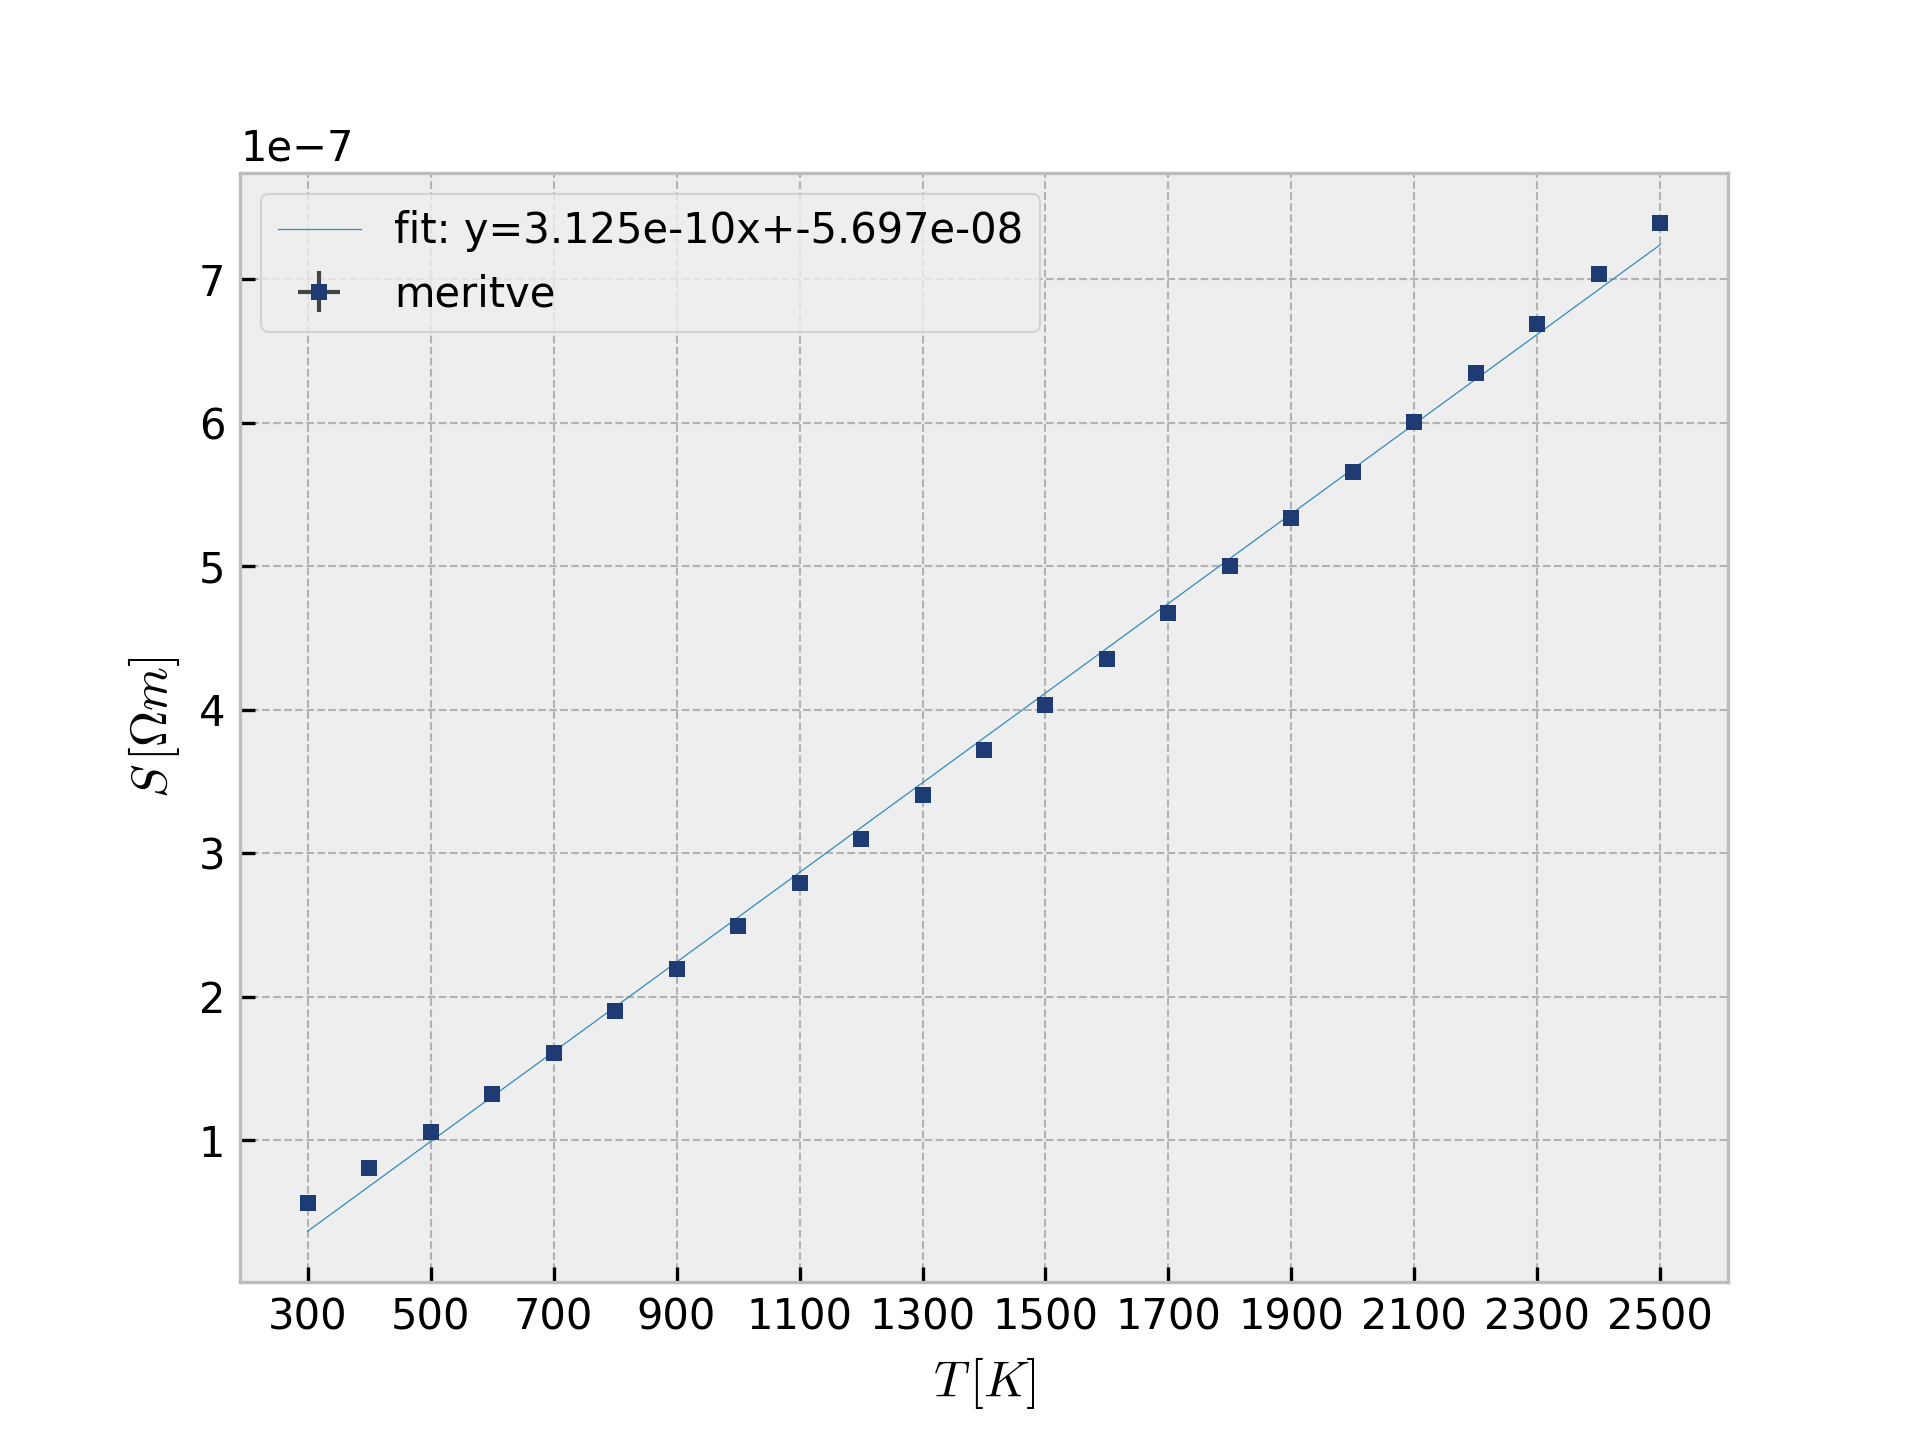
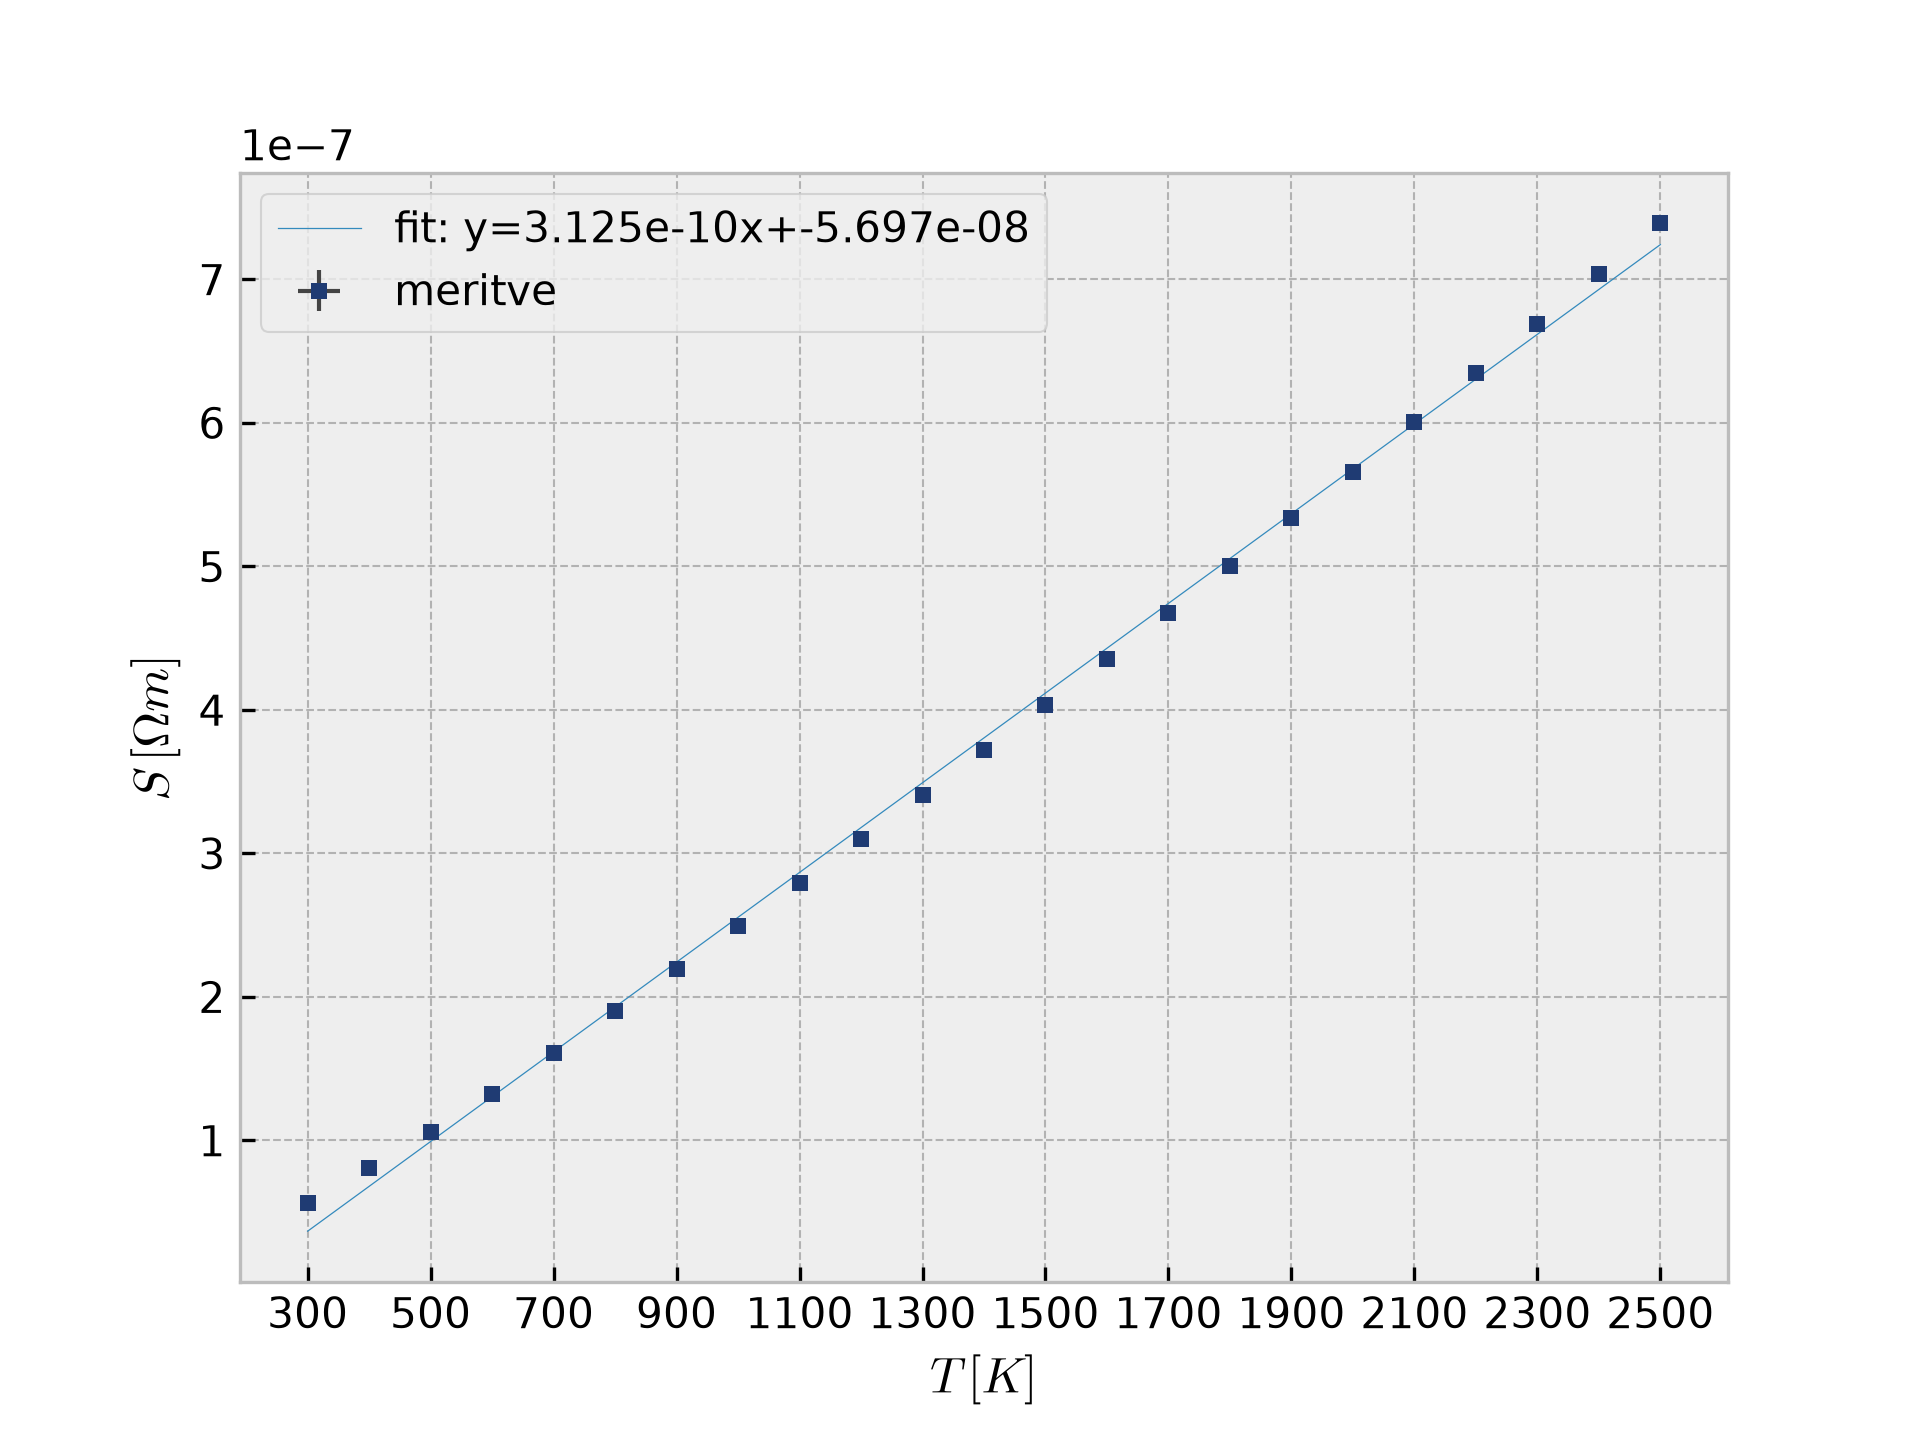
vaja 7 zacetek, jupiter notebook workflow

diff --git a/Eksperimenti_3/6/vaja.py b/Eksperimenti_3/6/vaja.py
@@ -1,0 +1,63 @@
+import numpy as np
+import matplotlib.pyplot as plt
+from scipy.optimize import curve_fit
+import pandas as pd
+
+plt.style.use('bmh') #ZELO DOBER PRESET!!!
+
+df = pd.read_csv("meritve/TajMeritve/Meritev1.csv", delimiter=";", decimal=",")
+
+print(df)
+#PAZI!!! PRVA VRSTA SE NE UPOSTEVA !!!!
+x = df.iloc[:,0].to_numpy()
+y = df.iloc[:,1].to_numpy()
+# y_cal = df.iloc[:,5].to_numpy()
+# x_err = df.iloc[:,2].to_numpy()
+# y_err = df.iloc[:,3].to_numpy()
+
+print(x); print(y);
+
+# fit function
+def f(x, a, b):
+    return a*x + b
+
+# Fit
+params, cov = curve_fit(f, x, y)
+a, b = params
+errors = np.sqrt(np.diag(cov))
+
+# Plot
+
+#wow:
+plt.errorbar(
+    x, y,
+    yerr=0,
+    xerr=0,
+    fmt='s',  # square markers
+    markersize=4,  # smaller dots
+    color='#1f3b73',  # dark blue (markers + line)
+    ecolor='#444444',  # dark grey error bars
+    elinewidth=1,  # thin error lines
+    capsize=3,  # "T" caps size
+    capthick=1,  # thickness of caps
+    markeredgewidth=0,
+    linestyle='none',  # no connecting lines
+    label='meritve'
+)
+
+x_fit = np.linspace(min(x), max(x), 100)
+plt.plot(x_fit, f(x_fit, a, b), label=f'fit: y={a:.3e}x+{b:.3e}', linewidth=0.3)
+
+plt.xticks(np.arange(min(x), max(x)+1, 200))
+plt.legend()
+plt.xlabel(r"$t\,[s]$")
+plt.ylabel(r"$x\,[m]$")
+plt.savefig("graf1test.png", dpi=300)
+
+plt.show()
+
+print("a =", a)
+print("b =", b)
+
+#neke
+
